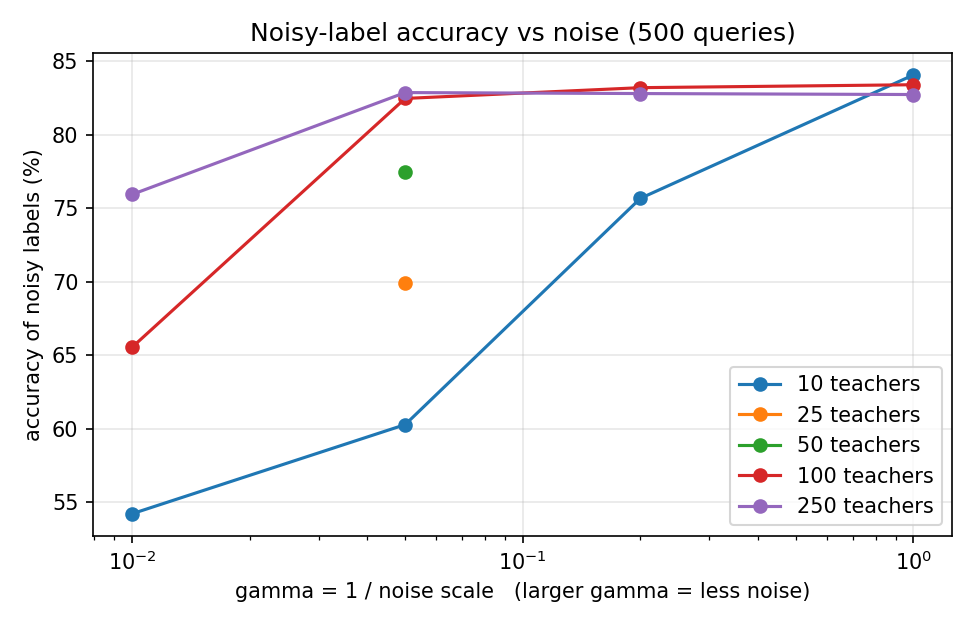
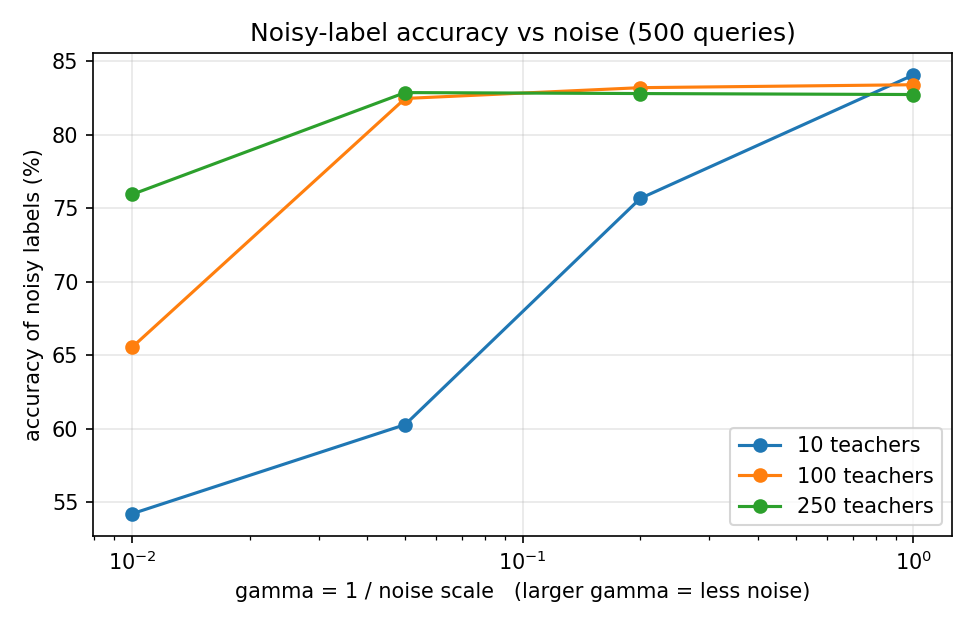
m2: align Fig. 2 teacher counts with paper

diff --git a/member2_privacy/plots.py b/member2_privacy/plots.py
@@ -61,7 +61,7 @@ def load_runs():
 
 def plot_accuracy_vs_noise(df, n_queries=500):
     """Fig. 2: accuracy of the noisy aggregation vs gamma = 1/noise_scale."""
-    d = df[df.n_queries == n_queries]
+    d = df[(df.n_queries == n_queries) & df.n_teachers.isin([10, 100, 250])]  # the paper's Fig. 2 teacher counts
     fig, ax = plt.subplots(figsize=(6.5, 4.2))
     for n, g in d.groupby("n_teachers"):
         s = g.groupby("noise_scale").label_accuracy.mean().sort_index()
